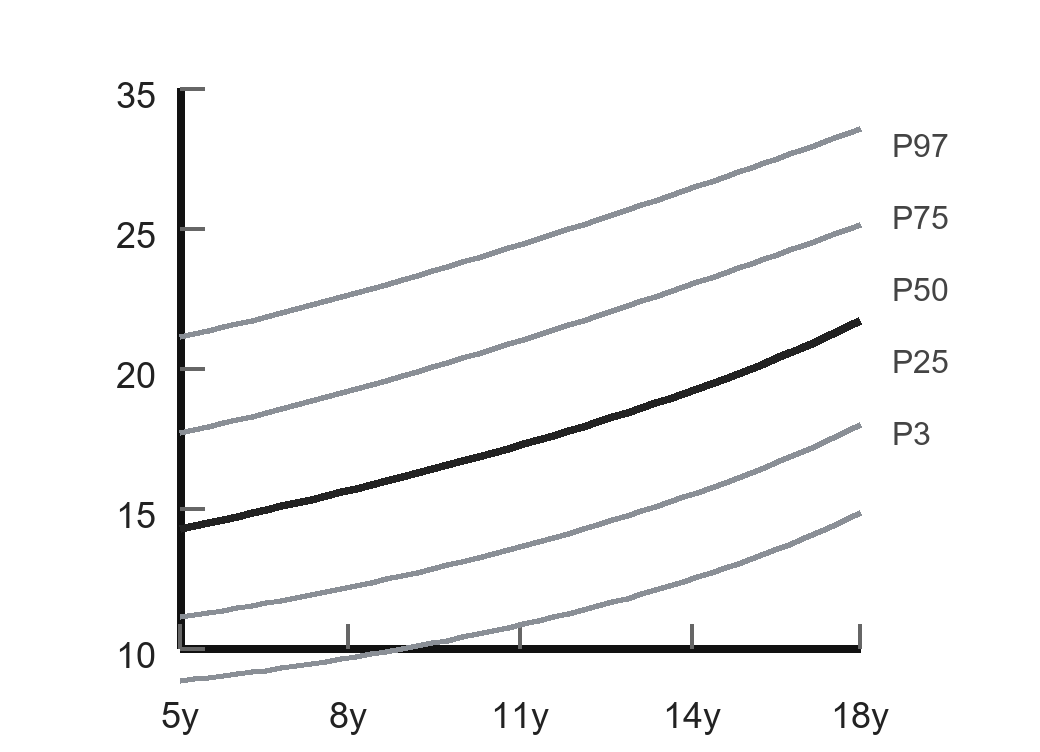
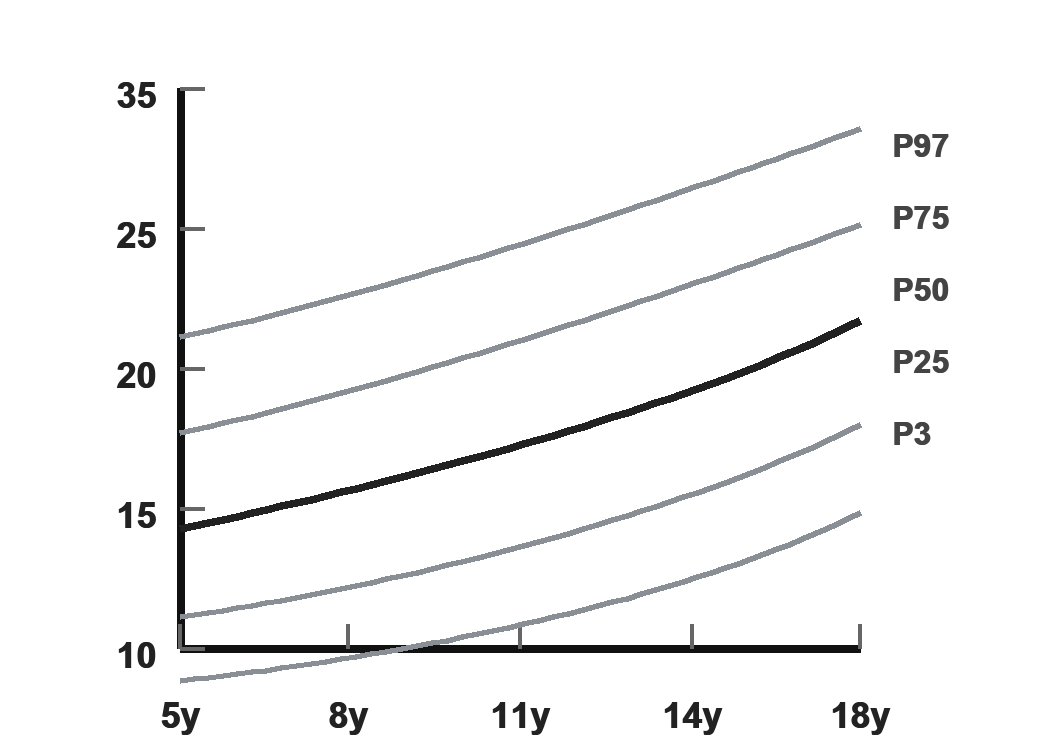
Bold chart labels and enlarge markers

diff --git a/app/preview.html b/app/preview.html
@@ -725,7 +725,7 @@
     const CHART_ASSET_VERSION = '2026-04-25-age-years-axis-hires';
     const CHART_RENDER_MAX_WIDTH = 1600;
     const CHART_RENDER_SCALE = 6;
-    const CHART_POINT_RADIUS = 14.4;
+    const CHART_POINT_RADIUS = 144;
     const chartTemplateAxis = {
       xStart: 0.1731,
       xEnd: 0.8269,
@@ -951,7 +951,7 @@
       context.arc(x, y, CHART_POINT_RADIUS * renderScale, 0, Math.PI * 2);
       context.fillStyle = '#b91c1c';
       context.fill();
-      context.lineWidth = 3.2 * renderScale;
+      context.lineWidth = 11 * renderScale;
       context.strokeStyle = '#ffffff';
       context.stroke();
 

diff --git a/scripts/generate_minimal_iap_pngs.py b/scripts/generate_minimal_iap_pngs.py
@@ -33,8 +33,13 @@ def sx(value: int | float) -> int:
     return round(value * SCALE)
 
 
-def load_font(size: int) -> ImageFont.ImageFont:
-    for font_name in ("arial.ttf", "Arial.ttf", "DejaVuSans.ttf"):
+def load_font(size: int, *, bold: bool = False) -> ImageFont.ImageFont:
+    font_names = (
+        ("arialbd.ttf", "Arial Bold.ttf", "DejaVuSans-Bold.ttf")
+        if bold
+        else ("arial.ttf", "Arial.ttf", "DejaVuSans.ttf")
+    )
+    for font_name in font_names:
         try:
             return ImageFont.truetype(font_name, sx(size))
         except OSError:
@@ -42,8 +47,8 @@ def load_font(size: int) -> ImageFont.ImageFont:
     return ImageFont.load_default()
 
 
-LABEL_FONT = load_font(9)
-PERCENTILE_FONT = load_font(8)
+LABEL_FONT = load_font(9, bold=True)
+PERCENTILE_FONT = load_font(8, bold=True)
 
 
 def cubic_points(p0, p1, p2, p3, steps: int = 48):
@@ -121,14 +126,20 @@ def text_center(draw: ImageDraw.ImageDraw, xy, text: str, font, fill):
     bbox = draw.textbbox((0, 0), text, font=font)
     width = bbox[2] - bbox[0]
     height = bbox[3] - bbox[1]
-    draw.text((xy[0] - width / 2, xy[1] - height / 2), text, font=font, fill=fill)
+    text_x = xy[0] - width / 2
+    text_y = xy[1] - height / 2
+    draw.text((text_x, text_y), text, font=font, fill=fill)
+    draw.text((text_x + sx(0.22), text_y), text, font=font, fill=fill)
 
 
 def text_right(draw: ImageDraw.ImageDraw, xy, text: str, font, fill):
     bbox = draw.textbbox((0, 0), text, font=font)
     width = bbox[2] - bbox[0]
     height = bbox[3] - bbox[1]
-    draw.text((xy[0] - width, xy[1] - height / 2), text, font=font, fill=fill)
+    text_x = xy[0] - width
+    text_y = xy[1] - height / 2
+    draw.text((text_x, text_y), text, font=font, fill=fill)
+    draw.text((text_x + sx(0.22), text_y), text, font=font, fill=fill)
 
 
 def draw_axes(draw: ImageDraw.ImageDraw, x: int, y: int, width: int, height: int, panel: dict):
@@ -154,7 +165,10 @@ def draw_percentiles(draw: ImageDraw.ImageDraw, kind: str, x: int, y: int, width
     top = y + 14
     step = max(14, min(18, (height - 24) // max(1, len(labels) - 1)))
     for index, label in enumerate(labels):
-        draw.text((sx(x + width + 8), sx(top + index * step - 4)), label, font=PERCENTILE_FONT, fill=PERCENTILE)
+        text_x = sx(x + width + 8)
+        text_y = sx(top + index * step - 4)
+        draw.text((text_x, text_y), label, font=PERCENTILE_FONT, fill=PERCENTILE)
+        draw.text((text_x + sx(0.22), text_y), label, font=PERCENTILE_FONT, fill=PERCENTILE)
 
 
 def render_chart(chart: dict) -> Image.Image:

diff --git a/app/chart_plotting.py b/app/chart_plotting.py
@@ -250,8 +250,8 @@ def sort_entries(entries: list[dict[str, Any]]) -> list[dict[str, Any]]:
 
 
 def draw_marker(draw: ImageDraw.ImageDraw, point: tuple[float, float], image_width: int) -> None:
-    radius = max(18, round(image_width * 0.016))
-    outline_width = max(3, round(radius * 0.42))
+    radius = max(180, round(image_width * 0.16))
+    outline_width = max(14, round(radius * 0.22))
     x, y = point
     draw.ellipse(
         (x - radius, y - radius, x + radius, y + radius),
@@ -273,7 +273,7 @@ def render_template_page(template_request: dict[str, Any], plot_series: dict[str
 
     image = Image.open(image_path).convert("RGB")
     draw = ImageDraw.Draw(image)
-    line_width = max(8, round(image.width * 0.0042))
+    line_width = max(20, round(image.width * 0.012))
 
     for metric_key in template_request.get("metrics", []):
         region = template["regions"].get(metric_key)
